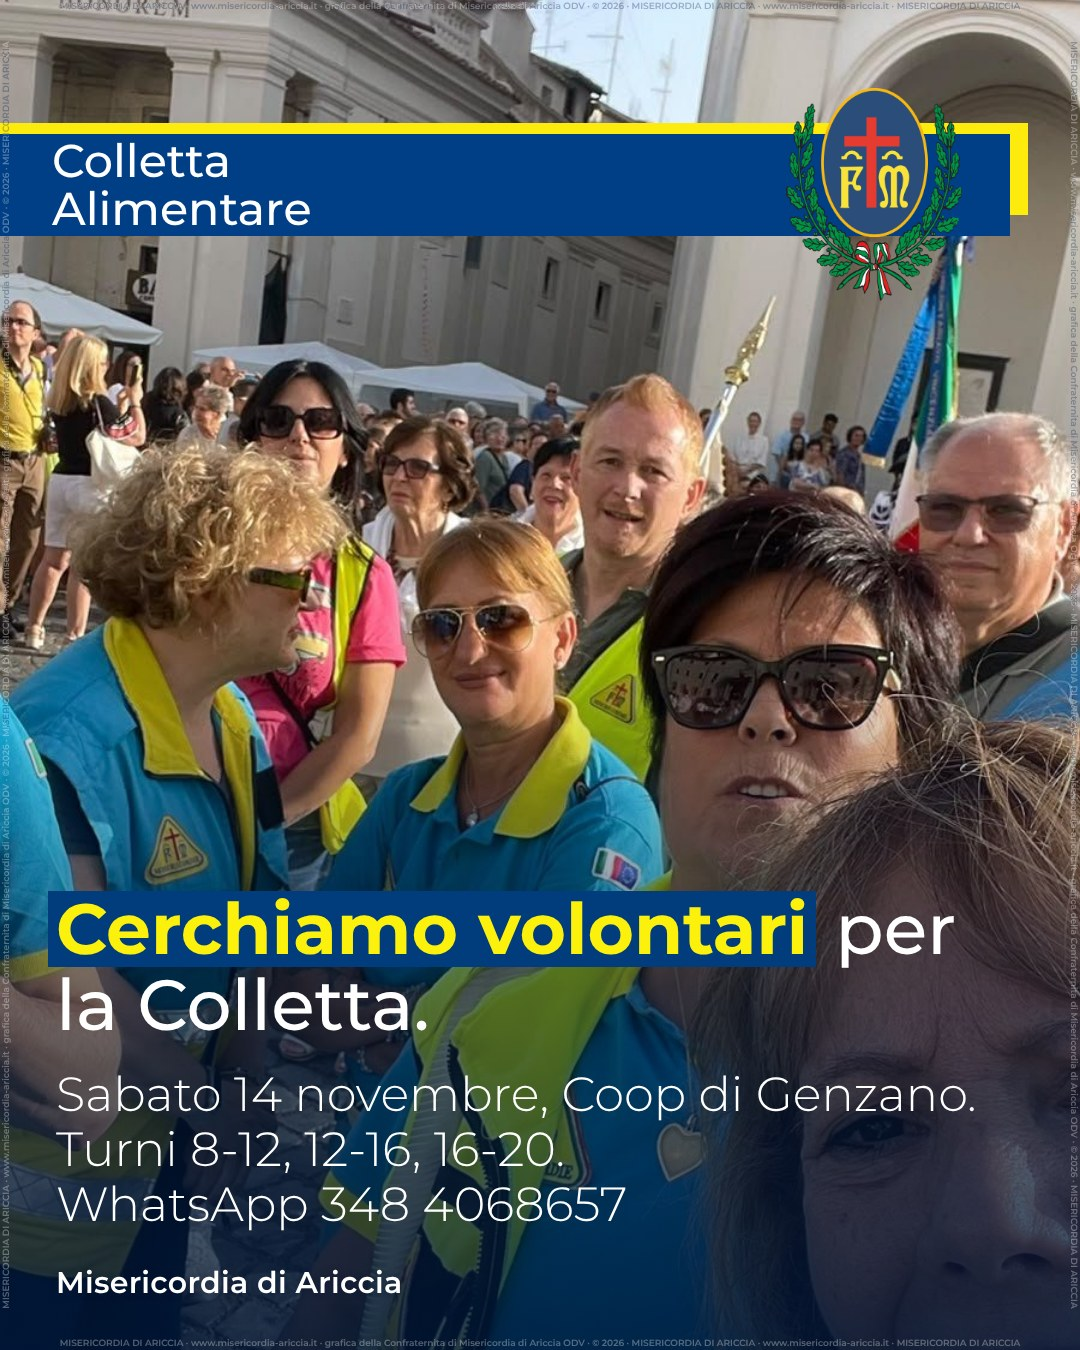
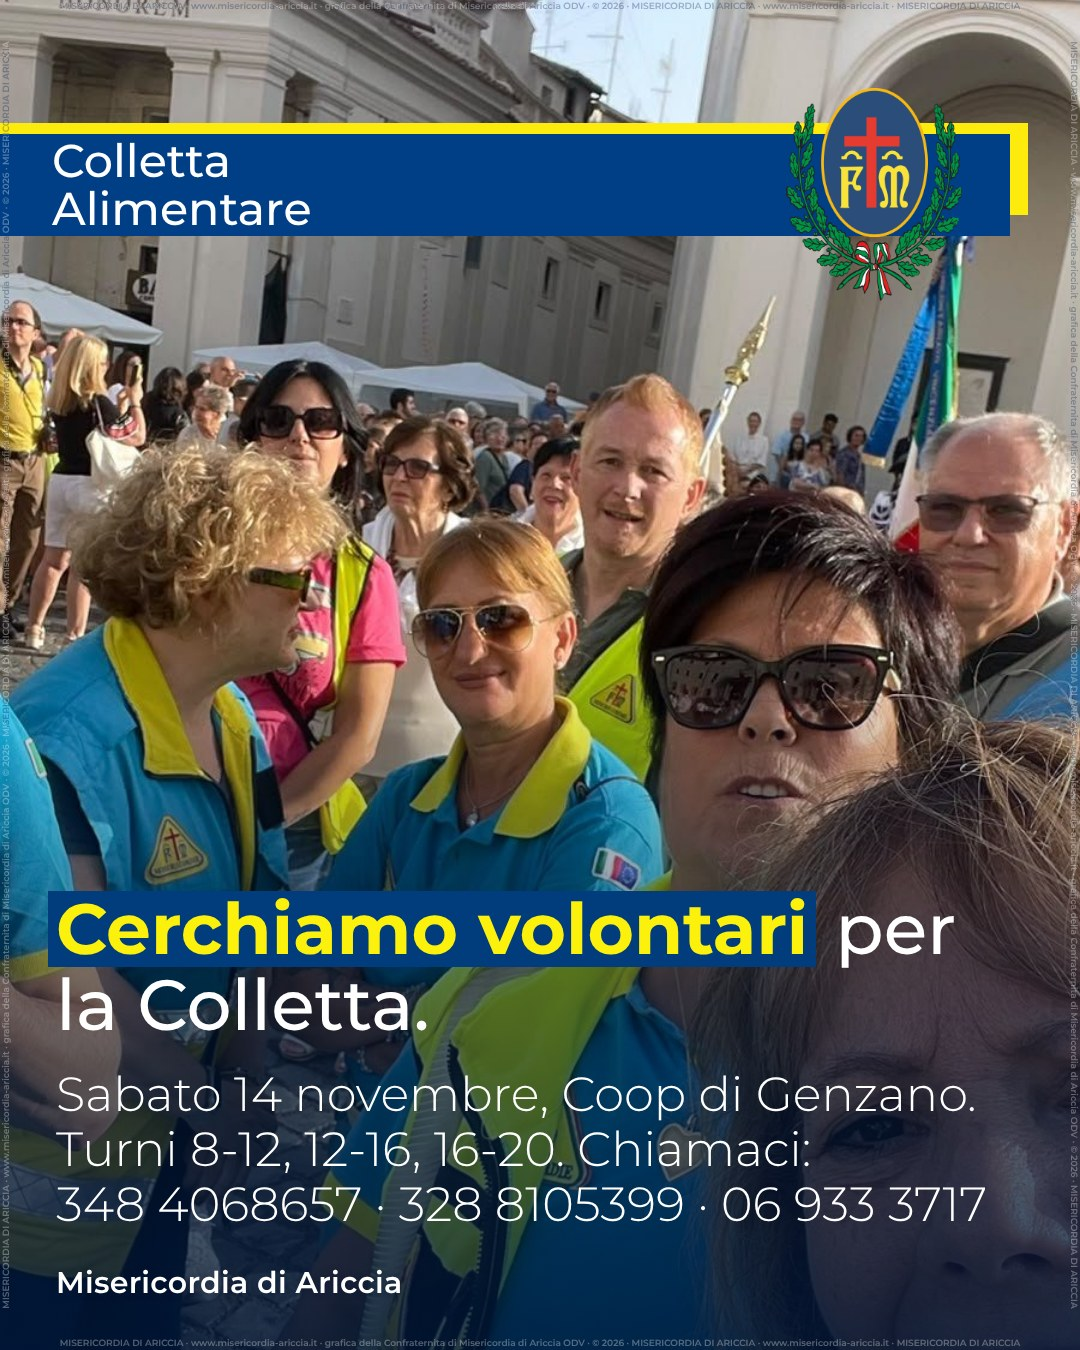
Colletta Alimentare: tutti i recapiti per dare la disponibilità
Nell'appello e nella news del 12/11 i tre numeri della Misericordia (348 4068657 anche WhatsApp, 328 8105399, 06 933 3717, dalla pagina Contatti); grafica rifatta con i tre numeri.

Changed region(s): [[0.0611, 0.84, 0.9167, 0.9022]]

diff --git a/content/news/2026-11-02-colletta-alimentare-cerchiamo-volontari.md b/content/news/2026-11-02-colletta-alimentare-cerchiamo-volontari.md
@@ -6,7 +6,7 @@ slug: "colletta-alimentare-cerchiamo-volontari"
 description: "Sabato 14 novembre la Misericordia di Ariccia è alla Coop di Genzano di Roma per la Colletta Alimentare: cerchiamo volontari per i turni 8-12, 12-16 e 16-20, anche non iscritti e minorenni con il permesso di un genitore."
 immagine: "/img/news/2026-11-02-colletta-alimentare-cerchiamo-volontari-grafica.jpg"
 controllo_editoriale: "2026-11-02"
-social_alt: "Grafica della Misericordia di Ariccia: volontarie in divisa in piazza ad Ariccia e la scritta «Cerchiamo volontari per la Colletta. Sabato 14 novembre, Coop di Genzano. Turni 8-12, 12-16, 16-20. WhatsApp 348 4068657»."
+social_alt: "Grafica della Misericordia di Ariccia: volontarie in divisa in piazza ad Ariccia e la scritta «Cerchiamo volontari per la Colletta. Sabato 14 novembre, Coop di Genzano. Turni 8-12, 12-16, 16-20. Chiamaci: 348 4068657, 328 8105399, 06 933 3717»."
 social_testo: |-
   🛒 Cerchiamo volontari per la Colletta Alimentare!
   Sabato 14 novembre siamo alla Coop di Genzano di Roma, in via Emilia Romagna 102, per la 30ª Giornata nazionale della Colletta Alimentare.
@@ -18,7 +18,10 @@ social_testo: |-
 
   Possono partecipare tutti, anche chi non è iscritto alla Misericordia. Per l'assicurazione ti chiederemo nome e cognome, codice fiscale, indirizzo di residenza ed email. Anche i minorenni sono i benvenuti, con l'autorizzazione di un genitore: il modulo te lo mandiamo noi.
 
-  📲 Scrivi COLLETTA e il turno su WhatsApp al 348 4068657, il prima possibile.
+  Dacci la tua disponibilità il prima possibile, dicendoci il turno:
+  📲 348 4068657 (anche WhatsApp: scrivi COLLETTA)
+  📞 328 8105399
+  ☎ 06 933 3717
   👉 https://wa.me/393484068657?text=COLLETTA
 
   Grazie a chi ci darà una mano. Che Iddio ve ne renda merito.
@@ -31,10 +34,10 @@ italianoSemplice: |
 
   Puoi venire anche se non sei iscritto alla Misericordia. Anche i ragazzi sotto i 18 anni possono venire, se un genitore firma il permesso.
 
-  Scrivi **COLLETTA** e il turno su WhatsApp al **348 4068657**.
+  Chiama il **348 4068657** (anche WhatsApp, scrivi **COLLETTA**), il **328 8105399** o il **06 933 3717** e di' quale turno scegli.
 ---
 
-![Grafica della Misericordia di Ariccia per la Colletta Alimentare: volontarie in divisa in piazza ad Ariccia, con la scritta «Cerchiamo volontari per la Colletta. Sabato 14 novembre, Coop di Genzano. Turni 8-12, 12-16, 16-20. WhatsApp 348 4068657».](/img/news/2026-11-02-colletta-alimentare-cerchiamo-volontari-grafica.jpg)
+![Grafica della Misericordia di Ariccia per la Colletta Alimentare: volontarie in divisa in piazza ad Ariccia, con la scritta «Cerchiamo volontari per la Colletta. Sabato 14 novembre, Coop di Genzano. Turni 8-12, 12-16, 16-20. Chiamaci: 348 4068657, 328 8105399, 06 933 3717».](/img/news/2026-11-02-colletta-alimentare-cerchiamo-volontari-grafica.jpg)
 
 **Sabato 14 novembre è la Giornata nazionale della Colletta Alimentare**, la trentesima. Nei supermercati di tutta Italia chi fa la spesa può donarne una parte per le persone in difficoltà. **La Misericordia di Ariccia sarà, come sempre, alla Coop di Genzano di Roma, in via Emilia Romagna 102.**
 
@@ -56,10 +59,14 @@ Scegli il turno che preferisci: accogliamo chi entra, spieghiamo la Colletta e r
 
 ## Come dare la tua disponibilità
 
-**[Scrivi COLLETTA su WhatsApp al 348 4068657](https://wa.me/393484068657?text=COLLETTA)** e indica il turno che scegli. Fallo **il prima possibile**, così possiamo organizzare bene i turni.
+Dacci la tua disponibilità **il prima possibile**, dicendoci il turno che scegli, così possiamo organizzare bene i turni:
+
+- **[348 4068657](tel:+393484068657)**, anche su WhatsApp: **[scrivi COLLETTA](https://wa.me/393484068657?text=COLLETTA)**
+- **[328 8105399](tel:+393288105399)**
+- **[06 933 3717](tel:+39069333717)**, telefono della sede
 
 Se non puoi esserci come volontario, passa a trovarci alla Coop sabato 14 e dona anche tu. Con il Banco Alimentare distribuiamo beni di prima necessità alle persone in difficoltà per tutto l'anno: trovi come funziona nella pagina dei **[servizi sociali](/servizi/servizi-sociali/)**. E se dopo la Colletta vuoi restare in squadra, leggi **[Diventa volontario](/diventa-volontario/)**.
 
 Grazie a chi ci darà una mano: **«Che Iddio ve ne renda merito»**.
 
-*Fonti: [Fondazione Banco Alimentare](https://www.bancoalimentare.it/colletta-alimentare) per la data della Colletta Alimentare 2026 e l'[elenco dei punti vendita](https://www.bancoalimentare.it/colletta-alimentare/punti-vendita), dove c'è la Coop di Genzano di Roma; turni e condizioni di partecipazione dalla Misericordia di Ariccia. Informazioni verificate il 2 novembre 2026.*
+*Fonti: [Fondazione Banco Alimentare](https://www.bancoalimentare.it/colletta-alimentare) per la data della Colletta Alimentare 2026 e l'[elenco dei punti vendita](https://www.bancoalimentare.it/colletta-alimentare/punti-vendita), dove c'è la Coop di Genzano di Roma; turni e condizioni di partecipazione dalla Misericordia di Ariccia; recapiti dalla pagina [Contatti](/contatti/). Informazioni verificate il 2 novembre 2026.*

diff --git a/content/news/2026-11-12-anche-ascoltare-e-un-servizio.md b/content/news/2026-11-12-anche-ascoltare-e-un-servizio.md
@@ -46,7 +46,7 @@ Al **Centro di Ascolto** i nostri volontari accolgono chi si rivolge a noi e lo 
 
 ## Il Banco Alimentare e la Colletta
 
-Con il **Banco Alimentare** distribuiamo beni di prima necessità alle persone in difficoltà, e ogni anno partecipiamo alla **Colletta Alimentare** nei supermercati del territorio. Quest'anno la Giornata nazionale della Colletta Alimentare, la trentesima, è **sabato 14 novembre**: nei supermercati si dona la spesa per chi è in difficoltà. **La Misericordia di Ariccia sarà alla Coop di Genzano di Roma, in via Emilia Romagna 102**: passa a trovarci e dona anche tu. E se puoi darci una mano per un turno (8-12, 12-16 o 16-20), anche se non sei iscritto, **[scrivi COLLETTA su WhatsApp al 348 4068657](https://wa.me/393484068657?text=COLLETTA)**: trovi tutto nell'articolo **[Colletta Alimentare: cerchiamo volontari](/news/colletta-alimentare-cerchiamo-volontari/)**.
+Con il **Banco Alimentare** distribuiamo beni di prima necessità alle persone in difficoltà, e ogni anno partecipiamo alla **Colletta Alimentare** nei supermercati del territorio. Quest'anno la Giornata nazionale della Colletta Alimentare, la trentesima, è **sabato 14 novembre**: nei supermercati si dona la spesa per chi è in difficoltà. **La Misericordia di Ariccia sarà alla Coop di Genzano di Roma, in via Emilia Romagna 102**: passa a trovarci e dona anche tu. E se puoi darci una mano per un turno (8-12, 12-16 o 16-20), anche se non sei iscritto, chiama il **[348 4068657](tel:+393484068657)** (anche **[WhatsApp](https://wa.me/393484068657?text=COLLETTA)**), il **[328 8105399](tel:+393288105399)** o il **[06 933 3717](tel:+39069333717)**: trovi tutto nell'articolo **[Colletta Alimentare: cerchiamo volontari](/news/colletta-alimentare-cerchiamo-volontari/)**.
 
 Trovi tutti i servizi nella pagina dei **[servizi sociali](/servizi/servizi-sociali/)**.
 
